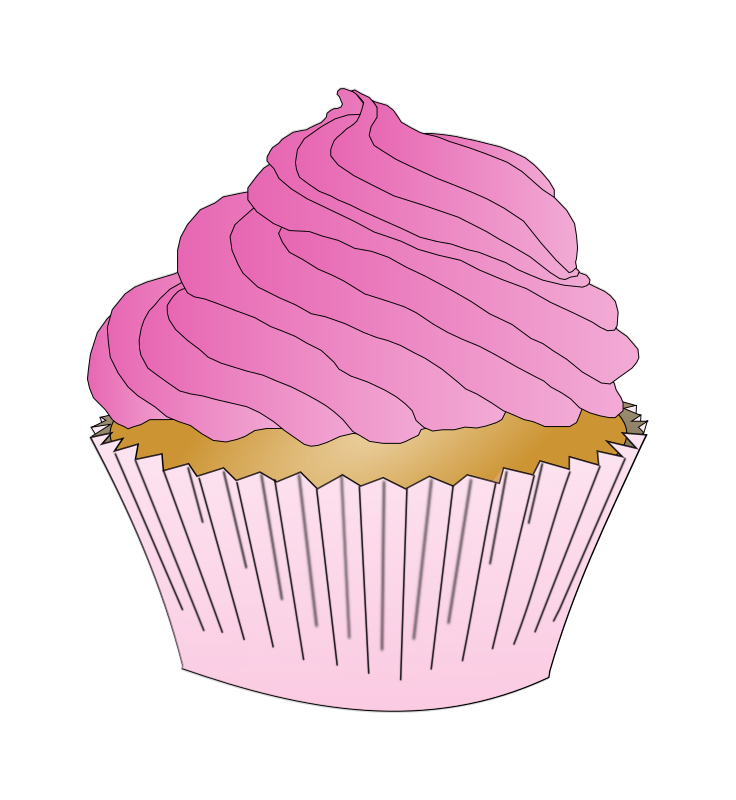
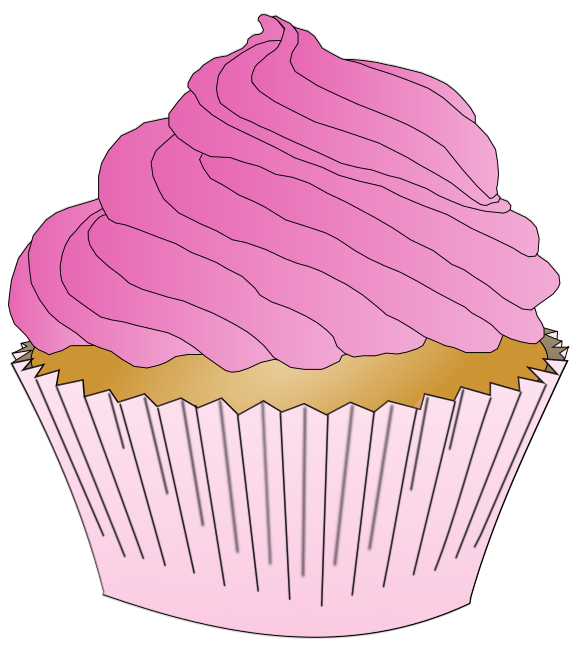
update phaser

diff --git a/Phaser Project/phaserproj.html b/Phaser Project/phaserproj.html
@@ -45,11 +45,11 @@ var game = new Phaser.Game(config);
 
 function preload ()
 {
-    this.load.image('sky', 'assets/sky.png');
+    this.load.image('sky', 'assets/sky.jpg');
     this.load.image('ground', 'assets/platform.png');
-    this.load.image('star', 'assets/star.png');
+    this.load.image('star', 'assets/cake.png');
     this.load.image('bomb', 'assets/bomb.png');
-    this.load.spritesheet('dude', 'assets/dude.png', { frameWidth: 32, frameHeight: 48 });
+    this.load.spritesheet('dude', 'assets/dude.png', { frameWidth: 190.5, frameHeight: 209 });
 }
 
 function create ()
@@ -70,7 +70,7 @@ function create ()
     platforms.create(750, 220, 'ground');
 
     // The player and its settings
-    player = this.physics.add.sprite(100, 450, 'dude');
+    player = this.physics.add.sprite(100, 450, 'dude').setScale(0.2);
 
     //  Player physics properties. Give the little guy a slight bounce.
     player.setBounce(0.2);
